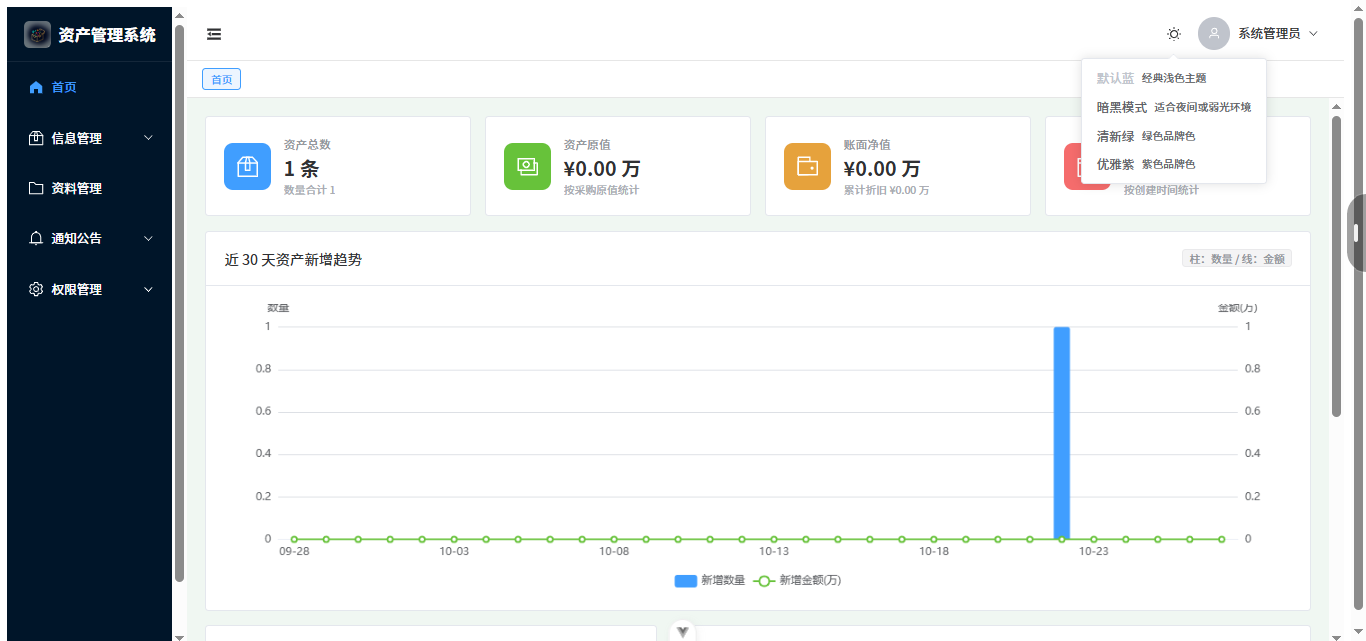
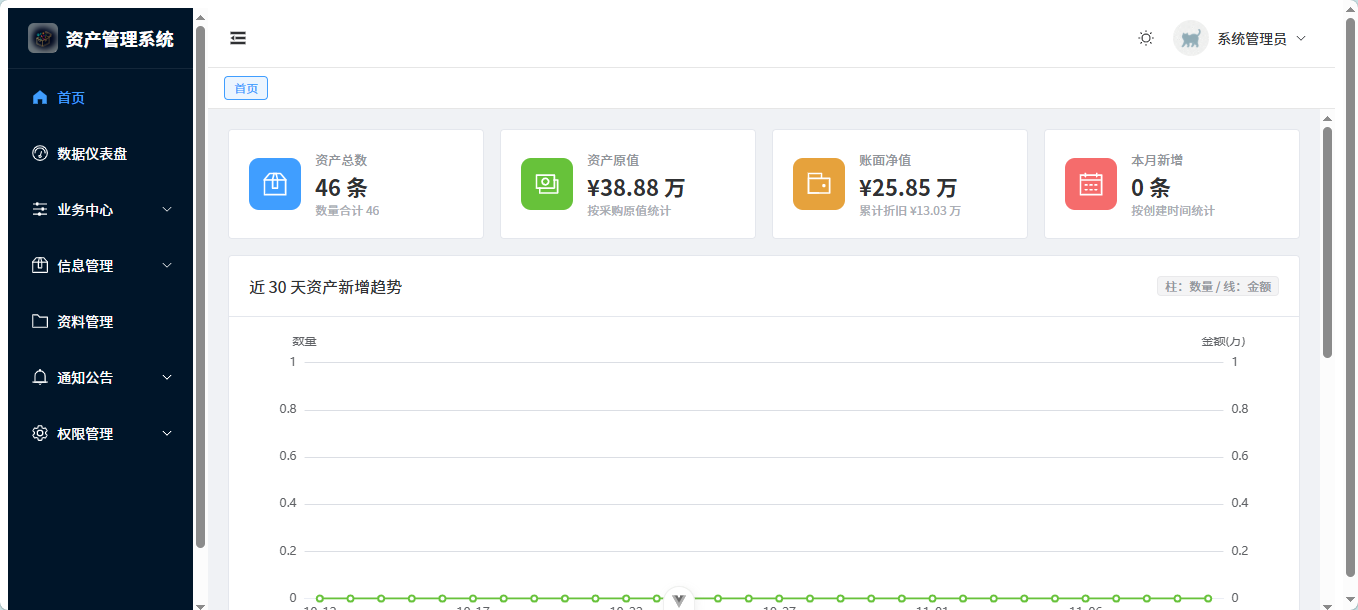
feat: 系统介绍页补齐新模块截图与能力说明
新增数据仪表盘/业务中心 5 张截图与 2 个画廊分组，更新首页截图、能力卡片(9项)与权限数，截图预览支持组内轮播

diff --git a/AssetManagementSystem.Frontend/src/views/Intro.vue b/AssetManagementSystem.Frontend/src/views/Intro.vue
@@ -15,8 +15,8 @@
       <el-tag class="hero-tag" effect="dark" round>资产全生命周期 · 数字化管理平台</el-tag>
       <h1 class="hero-title">资产管理系统</h1>
       <p class="hero-desc">
-        覆盖资产登记、分类归档、折旧统计、资料归档与权限管控的一体化平台。
-        支持多主题界面、角色级权限、文件管理与站内消息，手机端也能用手机号登录。
+        从资产登记、领用 / 归还 / 维修 / 报废全流程闭环，到盘点核账、报表导出与数据仪表盘，
+        每一次状态变更都留有单据可追溯。支持多主题界面、角色级权限与移动端访问。
       </p>
       <div class="hero-badges">
         <span v-for="t in highlights" :key="t.label" class="hero-badge">
@@ -53,7 +53,8 @@
           <figure v-for="shot in group.shots" :key="shot.src" class="shot">
             <el-image
               :src="shot.src"
-              :preview-src-list="[shot.src]"
+              :preview-src-list="group.shots.map((s) => s.src)"
+              :initial-index="group.shots.findIndex((s) => s.src === shot.src)"
               preview-teleported
               fit="contain"
               :alt="shot.title"
@@ -83,7 +84,19 @@
 
 <script setup lang="ts">
 import { useRouter } from 'vue-router'
-import { Box, Files, Lock, Bell, TrendCharts, Picture } from '@element-plus/icons-vue'
+import {
+  Box,
+  Files,
+  Lock,
+  Bell,
+  TrendCharts,
+  Picture,
+  Operation,
+  CircleCheck,
+  Document,
+  Download,
+  PieChart,
+} from '@element-plus/icons-vue'
 import logoUrl from '@/assets/logo.png'
 import loginRight from '@/assets/screenshots/login-purple-right.png'
 import loginCenter from '@/assets/screenshots/login-purple-center.png'
@@ -92,24 +105,33 @@ import homeBlue from '@/assets/screenshots/home-blue.png'
 import homeDark from '@/assets/screenshots/home-dark.png'
 import sidebarCollapsed from '@/assets/screenshots/sidebar-collapsed.png'
 import profileAvatar from '@/assets/screenshots/profile-avatar.png'
+import dashboardTop from '@/assets/screenshots/dashboard-analytics-1.png'
+import dashboardBottom from '@/assets/screenshots/dashboard-analytics-2.png'
+import flowList from '@/assets/screenshots/flow-list.png'
+import inventoryList from '@/assets/screenshots/inventory-list.png'
+import reportCenter from '@/assets/screenshots/report-center.png'
 
 const router = useRouter()
 
 const highlights = [
-  { label: '资产全生命周期', icon: Box },
+  { label: '全生命周期闭环', icon: Box },
+  { label: '盘点核账', icon: CircleCheck },
+  { label: '报表导出', icon: Document },
+  { label: '数据仪表盘', icon: PieChart },
   { label: '角色权限管控', icon: Lock },
-  { label: '文件资料归档', icon: Files },
-  { label: '站内消息通知', icon: Bell },
-  { label: '折旧统计分析', icon: TrendCharts },
+  { label: '多主题 / 移动端', icon: Picture },
 ]
 
 const features = [
   { title: '资产台账', desc: '登记、编辑、批量维护资产档案，按分类与部门归档，支持关键字检索与状态筛选。', icon: Box, color: '#409eff' },
+  { title: '全流程闭环', desc: '领用、归还、报修、维修完成、报废 5 类单据；状态机约束跃迁，资产状态与单据同事务落库，全程留痕可追溯。', icon: Operation, color: '#9254de' },
+  { title: '资产盘点', desc: '按部门或全量生成账面快照，逐条录入实盘结果，自动判定账实差异并汇总准确率，差异可一键生成处理单据。', icon: CircleCheck, color: '#36cfc9' },
+  { title: '报表导出', desc: '资产台账、分类/状态/部门/折旧汇总、流转记录、盘点差异共 7 类报表，支持 Excel 与 CSV 内存生成流式下载。', icon: Download, color: '#14b8a6' },
+  { title: '数据仪表盘', desc: '利用率仪表盘、状态分布、近 12 月趋势、部门排行与运营健康度，统计全部走 SQL 聚合，图表随主题自适应。', icon: PieChart, color: '#409eff' },
   { title: '折旧统计', desc: '按年限与残值自动计算折旧，一键重算并以图表呈现资产净值分布。', icon: TrendCharts, color: '#67c23a' },
-  { title: '分类体系', desc: '多级资产分类树，支持新增下级分类并绑定到资产，便于按类统计。', icon: Files, color: '#e6a23c' },
-  { title: '权限管理', desc: '用户、角色、部门三级管理，21 项功能权限自由勾选，无权限的入口前端直接隐藏。', icon: Lock, color: '#f56c6c' },
-  { title: '资料管理', desc: '上传归档合同、发票、说明书等附件，支持在线预览与批量清理。', icon: Picture, color: '#909399' },
-  { title: '消息通知', desc: '站内通知公告与个人消息，支持发布、撤回与已读状态跟踪。', icon: Bell, color: '#14b8a6' },
+  { title: '分类与资料', desc: '多级资产分类树，合同、发票、说明书等附件在线归档与预览，便于按类统计。', icon: Files, color: '#e6a23c' },
+  { title: '权限管理', desc: '用户、角色、部门三级管理，27 项功能权限自由勾选，无权限的入口前端直接隐藏。', icon: Lock, color: '#f56c6c' },
+  { title: '消息通知', desc: '站内通知公告与个人消息，支持发布、撤回与已读状态跟踪。', icon: Bell, color: '#909399' },
 ]
 
 const gallery = [
@@ -124,11 +146,28 @@ const gallery = [
   },
   {
     title: '主界面',
-    desc: '资产总览仪表盘、资产列表与统计图表，支持浅色与暗黑主题一键切换，侧边菜单可收起。',
+    desc: '资产总览仪表盘、KPI 指标与统计图表，支持浅色与暗黑主题一键切换，侧边菜单可收起。',
     shots: [
-      { src: homeBlue, title: '主界面 · 浅色主题' },
+      { src: homeBlue, title: '首页概览 · 浅色主题' },
       { src: homeDark, title: '主界面 · 暗黑主题' },
       { src: sidebarCollapsed, title: '菜单栏收起状态' },
+    ],
+  },
+  {
+    title: '数据仪表盘',
+    desc: '多维度 KPI 与 ECharts 图表：资产利用率、状态分布、分类与部门排行、近 12 个月新增趋势，以及折旧、流转与盘点的运营健康度。',
+    shots: [
+      { src: dashboardTop, title: '数据仪表盘 · KPI 与资产分布' },
+      { src: dashboardBottom, title: '数据仪表盘 · 趋势与运营健康度' },
+    ],
+  },
+  {
+    title: '业务中心',
+    desc: '领用 / 归还 / 维修 / 报废流转单据、资产盘点与 7 类报表导出，构成从日常办理到核账分析的完整业务链路。',
+    shots: [
+      { src: flowList, title: '流转单据 · 全生命周期记录' },
+      { src: inventoryList, title: '资产盘点 · 盘点单与差异汇总' },
+      { src: reportCenter, title: '报表中心 · 数据预览与导出' },
     ],
   },
   {
@@ -141,7 +180,7 @@ const gallery = [
 ]
 
 const tech = [
-  { name: '前端', desc: 'Vue 3 + TypeScript + Vite + Element Plus' },
+  { name: '前端', desc: 'Vue 3 + TypeScript + Vite 8 + Element Plus + ECharts 6' },
   { name: '后端', desc: '.NET 10 + ASP.NET Core Web API + SqlSugar' },
   { name: '数据库', desc: 'SQLite（内置）/ SQL Server（可选），同一套代码跨库兼容' },
   { name: '缓存', desc: 'Redis 承载验证码与热点缓存，异常时自动降级为内存' },
@@ -318,7 +357,8 @@ const scrollTo = (id: string) => {
 .shot-img {
   display: block;
   width: 100%;
-  aspect-ratio: 16 / 10;
+  /* 截图均为 2.1~2.2 的宽屏比例，容器贴近原图可少留白 */
+  aspect-ratio: 2 / 1;
   cursor: zoom-in;
   /* contain 完整展示界面截图，避免裁掉两侧内容 */
   padding: 10px;
